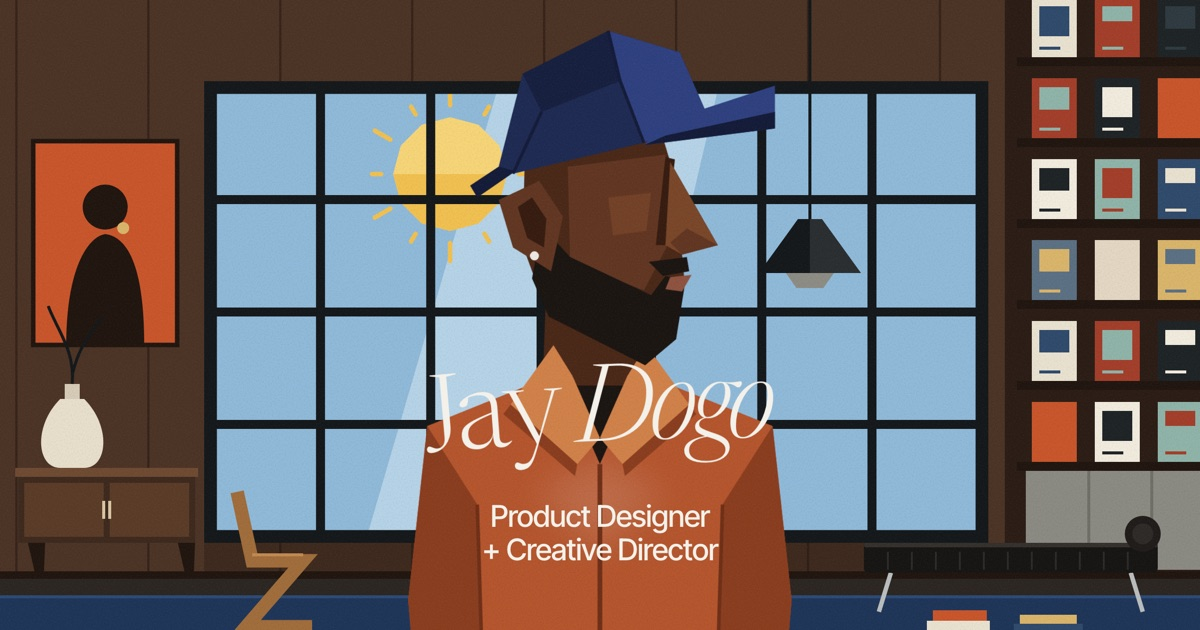
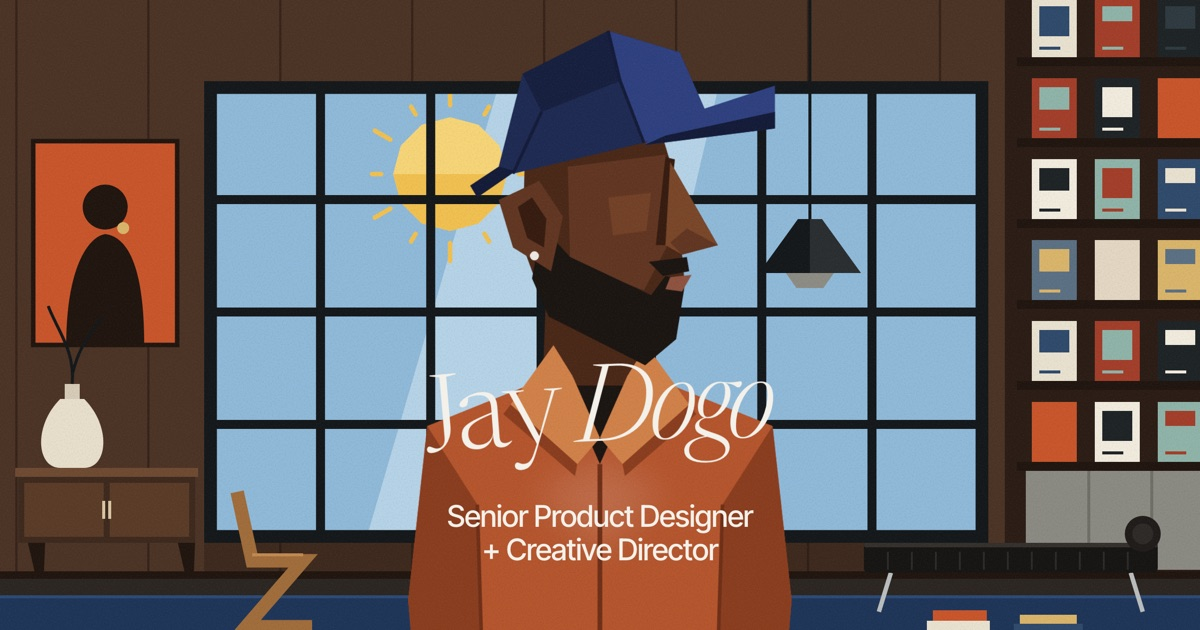
Accueil : Senior Product Designer

Changed region(s): [[0.37, 0.7841, 0.6475, 0.8444]]

diff --git a/fr/index.html b/fr/index.html
@@ -515,7 +515,7 @@ body.suiv #cvbar.vu{opacity:0;pointer-events:none;transform:translateY(12px);tra
 <body>
 <h1 class="vh">Jean-Yves Dogo · Product Designer et Creative Director</h1>
 <noscript><p>Depuis plus de 8 ans, je crois à un design aussi juste dans ses usages que singulier dans son expression. Je conçois des produits, dirige des projets créatifs et construis des univers où chaque détail porte la même intention.</p><p><a href="/cv-jean-yves-dogo.pdf">Télécharger mon CV</a> · <a href="mailto:jeanyves.dogo@gmail.com">jeanyves.dogo@gmail.com</a> · <a href="https://www.linkedin.com/in/jeanyves-jay-dogo">LinkedIn</a> · <a href="https://dake.studio">Daké</a></p></noscript>
-<div id="stage" aria-label="Projets, glisser à l'horizontale"><div id="worlds"></div><div id="ground"></div><div id="grn"></div><div id="rib"></div><div id="sub">Product Designer <br>+ Creative Director</div></div>
+<div id="stage" aria-label="Projets, glisser à l'horizontale"><div id="worlds"></div><div id="ground"></div><div id="grn"></div><div id="rib"></div><div id="sub">Senior Product Designer <br>+ Creative Director</div></div>
 <div id="cvbar"><a id="cvdl" href="/cv-jean-yves-dogo.pdf" download><svg viewBox="0 0 16 16" aria-hidden="true"><path d="M1.5 8S4 3.5 8 3.5 14.5 8 14.5 8 12 12.5 8 12.5 1.5 8 1.5 8Z" fill="none" stroke="currentColor" stroke-width="1.3"/><circle cx="8" cy="8" r="2" fill="currentColor"/></svg><span>Aperçu du CV</span></a><a id="cvct" href="mailto:jeanyves.dogo@gmail.com"><svg viewBox="-10 -25 120 120" aria-hidden="true"><path transform="rotate(-45 50 35)" d="M0 35H96M70 2C72 20 82 33 99 35M70 68C72 50 82 37 99 35" fill="none" stroke="currentColor" stroke-width="8"/></svg><span data-t="mect" aria-live="polite">Me contacter</span></a></div><div id="cvv" role="dialog" aria-modal="true" aria-label="Aperçu du CV" aria-hidden="true"><div class="fe"><img id="cvimg" alt="Aperçu du CV de Jean-Yves Dogo" width="1231" height="1600"></div><div id="cvva"><a id="cvgo" href="/cv-jean-yves-dogo.pdf" download="Jean-Yves-Dogo-CV.pdf"><svg viewBox="0 0 16 16" aria-hidden="true"><path d="M8 2v8M4.5 7L8 10.5 11.5 7M3 13.5h10" fill="none" stroke="currentColor" stroke-width="1.4"/></svg><span>Télécharger</span></a><button id="cvx"><span>Fermer</span></button></div></div><header id="hd"><button id="home" aria-label="Jean-Yves Dogo"><svg class="lgo" viewBox="0 0 75.5 30" role="img" aria-labelledby="lgoT"><title id="lgoT">Jean-Yves Dogo</title><text x="0" y="29.3" font-size="40" letter-spacing="-1.6" font-family="Inter Tight,Helvetica,Arial,sans-serif" font-weight="600" fill="currentColor">JD</text><path d="M46.81 9.11L73.79 20.29M54.71 1.21L65.89 28.19M65.89 1.21L54.71 28.19M73.79 9.11L46.81 20.29" fill="none" stroke="currentColor" stroke-width="4.4"/></svg></button><nav><button class="pill" id="tog">Profil</button><button id="plus" aria-label="Ouvrir le menu" aria-expanded="false"></button></nav></header>
 <div id="menu" aria-label="Menu" inert><div class="mp"></div><div class="mi">
  <div class="mh"><div><span>Paris</span><time data-tz="Europe/Paris">--:--:--</time></div><div><span>Abidjan</span><time data-tz="Africa/Abidjan">--:--:--</time></div><div><span>New York</span><time data-tz="America/New_York">--:--:--</time></div></div>

diff --git a/index.html b/index.html
@@ -515,7 +515,7 @@ body.suiv #cvbar.vu{opacity:0;pointer-events:none;transform:translateY(12px);tra
 <body>
 <h1 class="vh">Jean-Yves Dogo · Product Designer &amp; Creative Director</h1>
 <noscript><p>For over 8 years, I’ve believed design should be as thoughtful in use as it is distinctive in expression. I design products, lead creative projects, and build visual worlds where every detail serves a shared vision.</p><p><a href="/cv-jean-yves-dogo-en.pdf">Download my CV</a> · <a href="mailto:jeanyves.dogo@gmail.com">jeanyves.dogo@gmail.com</a> · <a href="https://www.linkedin.com/in/jeanyves-jay-dogo">LinkedIn</a> · <a href="https://dake.studio">Daké</a></p></noscript>
-<div id="stage" aria-label="Projets, glisser à l'horizontale"><div id="worlds"></div><div id="ground"></div><div id="grn"></div><div id="rib"></div><div id="sub">Product Designer <br>+ Creative Director</div></div>
+<div id="stage" aria-label="Projets, glisser à l'horizontale"><div id="worlds"></div><div id="ground"></div><div id="grn"></div><div id="rib"></div><div id="sub">Senior Product Designer <br>+ Creative Director</div></div>
 <div id="cvbar"><a id="cvdl" href="cv-jean-yves-dogo.pdf" download><svg viewBox="0 0 16 16" aria-hidden="true"><path d="M1.5 8S4 3.5 8 3.5 14.5 8 14.5 8 12 12.5 8 12.5 1.5 8 1.5 8Z" fill="none" stroke="currentColor" stroke-width="1.3"/><circle cx="8" cy="8" r="2" fill="currentColor"/></svg><span>Aperçu du CV</span></a><a id="cvct" href="mailto:jeanyves.dogo@gmail.com"><svg viewBox="-10 -25 120 120" aria-hidden="true"><path transform="rotate(-45 50 35)" d="M0 35H96M70 2C72 20 82 33 99 35M70 68C72 50 82 37 99 35" fill="none" stroke="currentColor" stroke-width="8"/></svg><span data-t="mect" aria-live="polite">Me contacter</span></a></div><div id="cvv" role="dialog" aria-modal="true" aria-label="Aperçu du CV" aria-hidden="true"><div class="fe"><img id="cvimg" alt="Aperçu du CV de Jean-Yves Dogo" width="1231" height="1600"></div><div id="cvva"><a id="cvgo" href="cv-jean-yves-dogo.pdf" download="Jean-Yves-Dogo-CV.pdf"><svg viewBox="0 0 16 16" aria-hidden="true"><path d="M8 2v8M4.5 7L8 10.5 11.5 7M3 13.5h10" fill="none" stroke="currentColor" stroke-width="1.4"/></svg><span>Télécharger</span></a><button id="cvx"><span>Fermer</span></button></div></div><header id="hd"><button id="home" aria-label="Jean-Yves Dogo"><svg class="lgo" viewBox="0 0 75.5 30" role="img" aria-labelledby="lgoT"><title id="lgoT">Jean-Yves Dogo</title><text x="0" y="29.3" font-size="40" letter-spacing="-1.6" font-family="Inter Tight,Helvetica,Arial,sans-serif" font-weight="600" fill="currentColor">JD</text><path d="M46.81 9.11L73.79 20.29M54.71 1.21L65.89 28.19M65.89 1.21L54.71 28.19M73.79 9.11L46.81 20.29" fill="none" stroke="currentColor" stroke-width="4.4"/></svg></button><nav><button class="pill" id="tog">Profil</button><button id="plus" aria-label="Ouvrir le menu" aria-expanded="false"></button></nav></header>
 <div id="menu" aria-label="Menu" inert><div class="mp"></div><div class="mi">
  <div class="mh"><div><span>Paris</span><time data-tz="Europe/Paris">--:--:--</time></div><div><span>Abidjan</span><time data-tz="Africa/Abidjan">--:--:--</time></div><div><span>New York</span><time data-tz="America/New_York">--:--:--</time></div></div>
